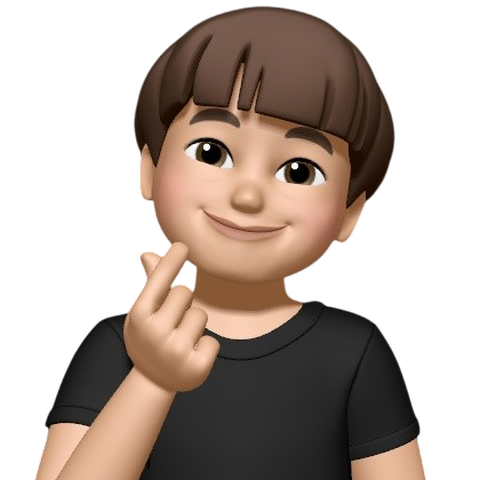
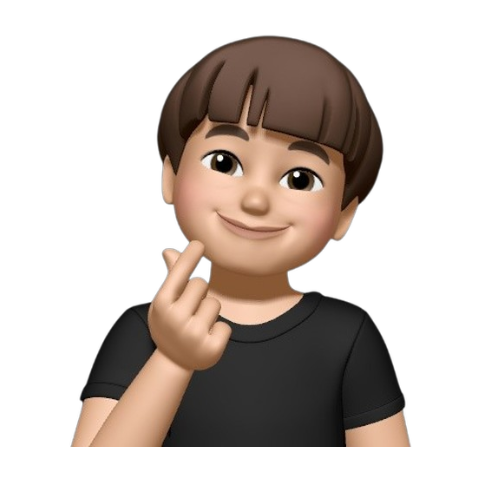
멤버 소개 수정 및 마무리

diff --git a/src/components/Memberdetail.jsx b/src/components/Memberdetail.jsx
@@ -15,50 +15,82 @@ const memberData = [
   {
     name: "강현승",
     image: member1,
-    role: "팀장",
-    description: "인공지능학과 2024년도 회장출신",
+    role: "Leader, AI, Backend",
+    description: "MBTI: ESTJ",
+    description1: "생년월일: 2002.09.10",
+    description2: "전공: 인공지능전공",
+    description3: "Skill: Python, C, Java",
+    description4: "인공지능학과의 기초를 다진 남자",
   },
   {
     name: "김현지",
     image: member2,
-    role: "백엔드",
-    description: "Spring Boot 에이스",
+    role: "Backend, Infra",
+    description: "MBTI: ISFP",
+    description1: "생년월일: 2002.09.10",
+    description2: "전공: 인공지능전공",
+    description3: "Skill: SpringBoot, C, Java, Python, Kotlin",
+    description4: "우리팀의 Backend 에이스",
   },
   {
     name: "문승주",
     image: member3,
-    role: "백엔드, 인프라",
-    description: "네 좋습니다. 저만 믿고 따라오면 됩니다",
+    role: "Backend, Infra",
+    description: "MBTI: ESFJ",
+    description1: "생년월일: 1999.06.05",
+    description2: "전공: 컴퓨터공학전공",
+    description3: "Skill: SpringBoot, Java, Docker, SpringCloud, AWS",
+    description4: "네 좋습니다. 저만 믿고 따라오면 됩니다",
   },
   {
     name: "이경준",
     image: member4,
-    role: "프론트엔드",
-    description: "열심히 하겠습니다",
+    role: "Frontend",
+    description: "MBTI: ISFJ",
+    description1: "생년월일: 2001.02.24",
+    description2: "전공: 컴퓨터공학전공",
+    description3: "Skill: JavaScript, React, Flutter, Dart",
+    description4: "비행기 타고 보면 가천대 2.5cm",
   },
   {
     name: "김송희",
     image: member5,
-    role: "프론트엔드",
-    description: "총학생회 화이팅",
+    role: "Frontend",
+    description: "MBTI: INFP",
+    description1: "생년월일: 2004.05.09",
+    description2: "전공: 소프트웨어공학전공",
+    description3: "Skill: Python, Java, C, HTML",
+    description4: "총학생회 그만두고 싶어하는 것 같다",
   },
   {
     name: "이재모",
     image: member6,
-    role: "인프라",
-    description: "아직 취해본 적이 없는 개발자",
+    role: "Backend, Infra",
+    description: "MBTI: ISFP",
+    description1: "생년월일: 1999.02.11",
+    description2: "전공: 컴퓨터공학전공",
+    description3: "Skill: Python, Java, C",
+    description4: "아직 취해본 적이 없는 술톤 개발자",
   },
   {
     name: "조선현",
     image: member7,
-    role: "PM",
-    description: "목표는 3대 500치기",
+    role: "PM, Frontend, AI",
+    description: "MBTI: ISTJ",
+    description1: "생년월일: 2000.03.14",
+    description2: "전공: 소프트웨어공학전공",
+    description3: "Skill: Python, Java, C",
+    description4: "목표는 3대 500치기",
   },
   {
     name: "전준배",
     image: member8,
     role: "백엔드",
-    description: "엊그제 여행갔다온 복정 자취남",
+    description: "MBTI: ISTJ",
+    description1: "생년월일: 2000.03.14",
+    description2: "전공: 소프트웨어공학전공",
+    description3: "Skill: Python, Java, C",
+    description4: "목표는 3대 500치기",
   },
 ];
 
@@ -93,9 +125,13 @@ export const MemberDetail = () => {
           alt={member.name}
           className="member-detail-img"
         />
-        <h2>{member.name}</h2>
+        <h1>{member.name}</h1>
         <h4>{member.role}</h4>
+        <p>{member.description4}</p>
         <p>{member.description}</p>
+        <p>{member.description1}</p>
+        <p>{member.description2}</p>
+        <p>{member.description3}</p>
       </motion.div>
     </motion.div>
   );

diff --git a/src/App.css b/src/App.css
@@ -253,11 +253,11 @@
 }
 
 .member-detail {
-  padding-top: 200px;
+  padding: 200px 0 80px;  /* 상단 200px, 하단 80px으로 변경 */
   min-height: 100vh;
   display: flex;
   justify-content: center;
-  align-items: center;
+  /* align-items: center; 이 줄은 제거 */
   background-color: #f6f6f6;
   font-family: 'Gmarket Sans', sans-serif;
   font-size: 25px;
@@ -275,11 +275,11 @@
 }
 
 .member-detail-img {
-  width: 300px;
-  height: 300px;
+  width: 400px;
+  height: 400px;
   object-fit: cover;
   border-radius: 14px;
-  margin-bottom: 30px;
+  margin-bottom: -35px;
 }
 
 /* 프로젝트 소개 */
